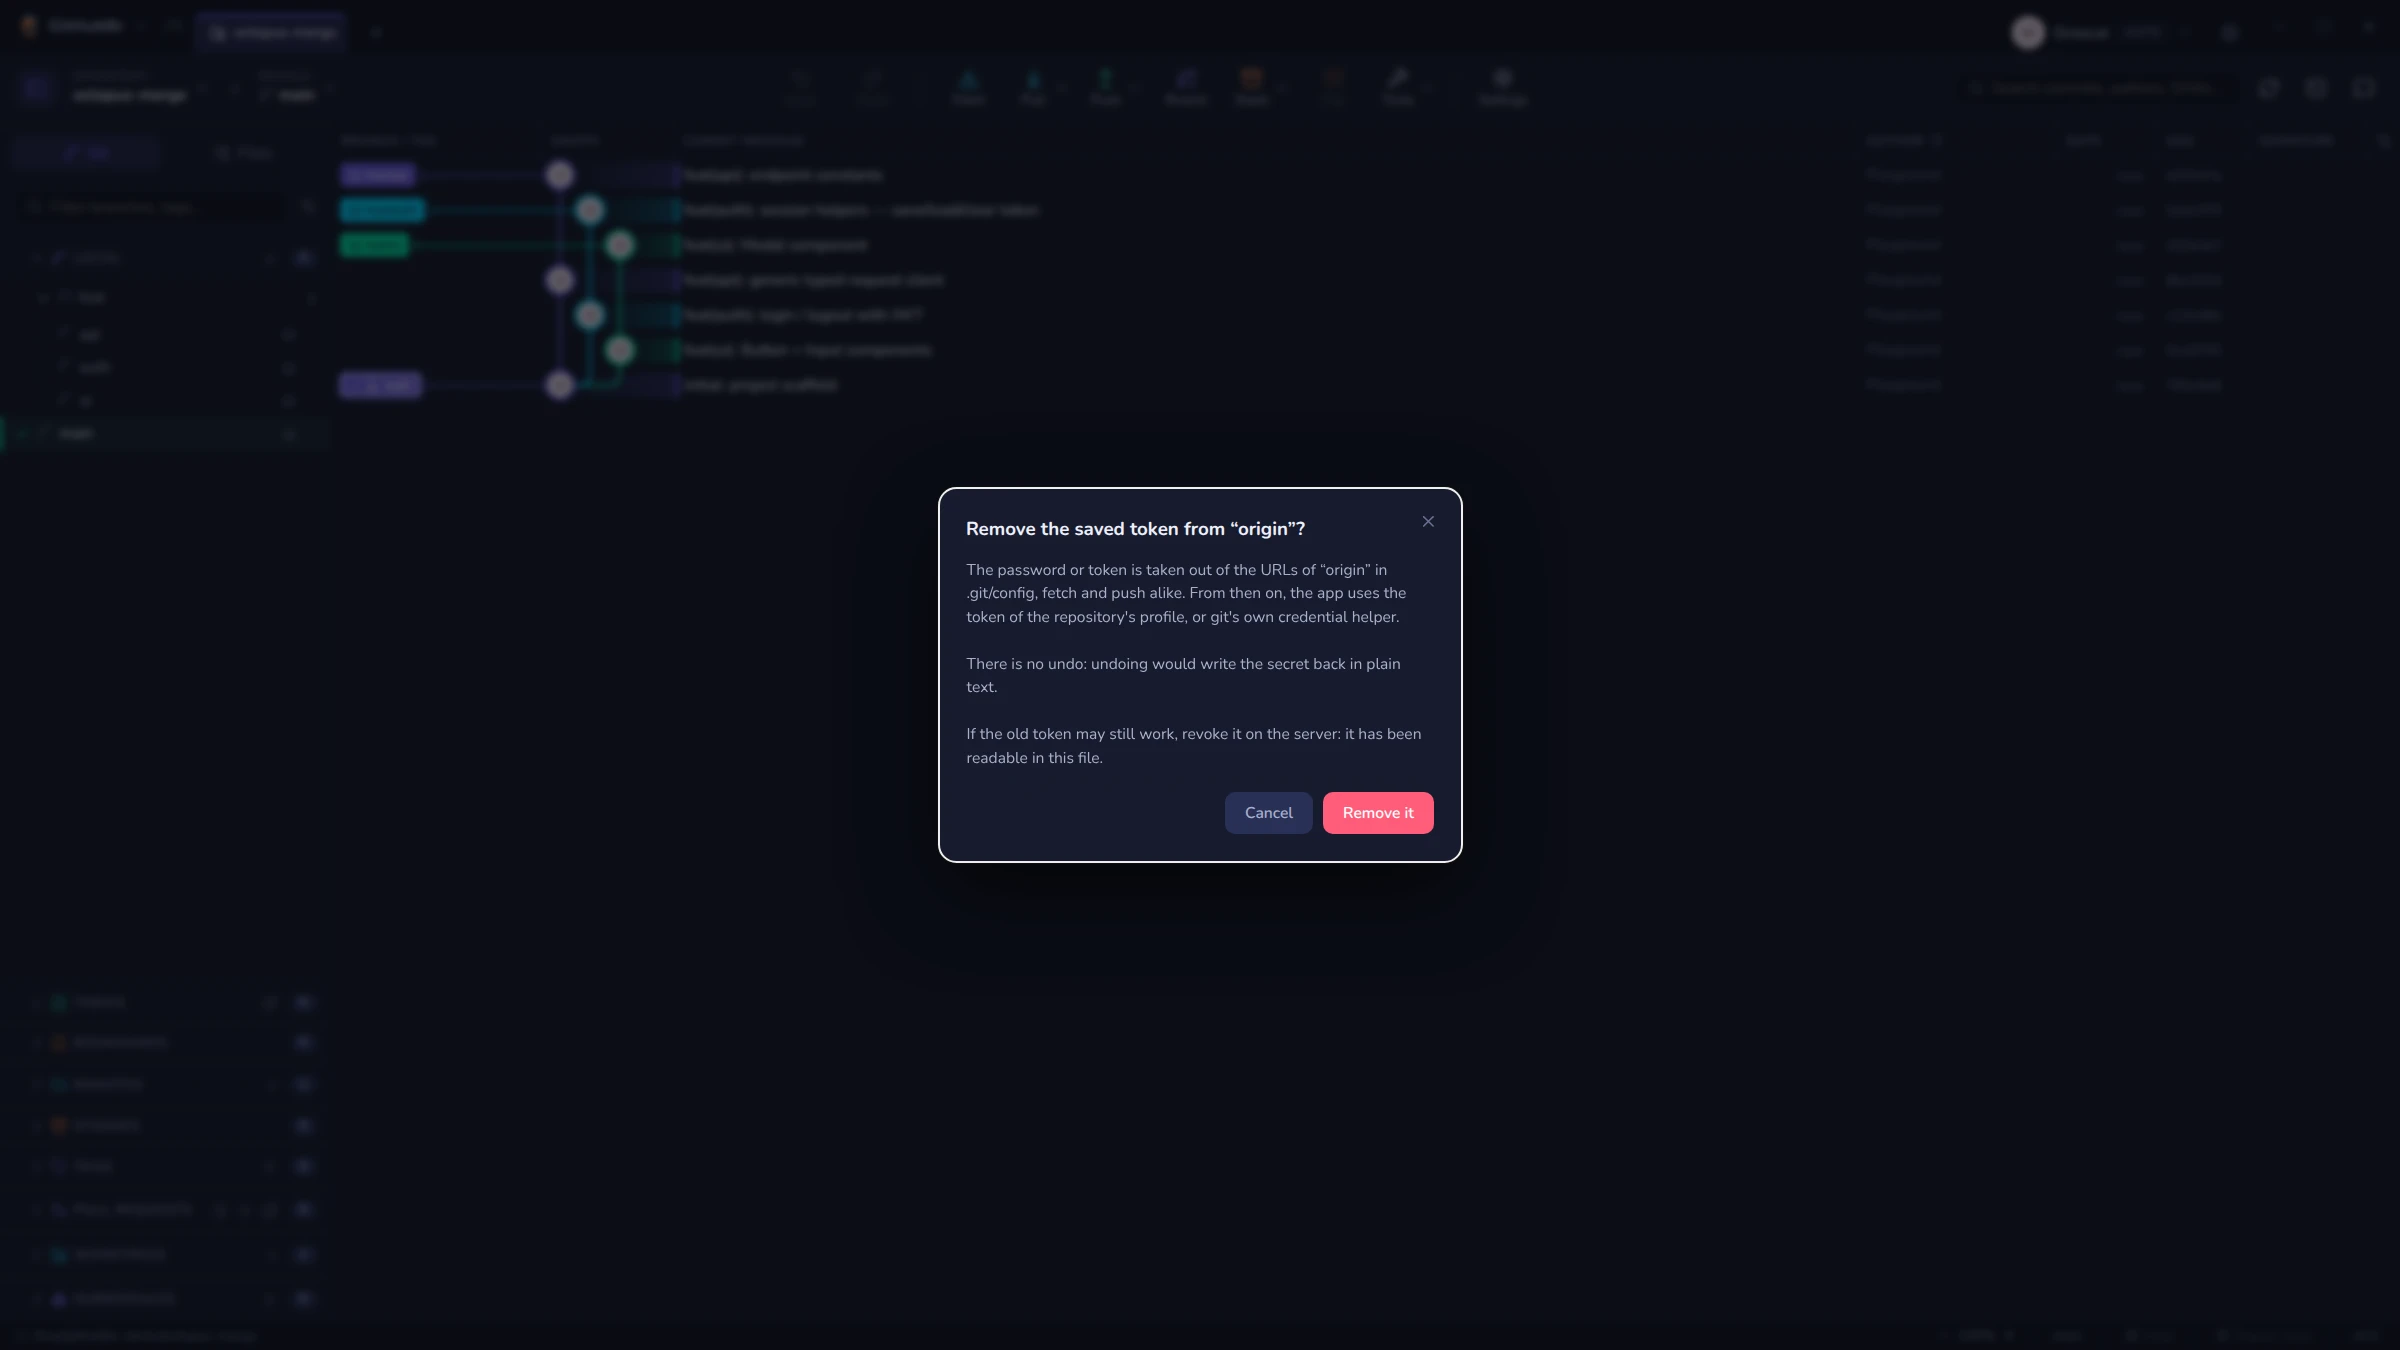
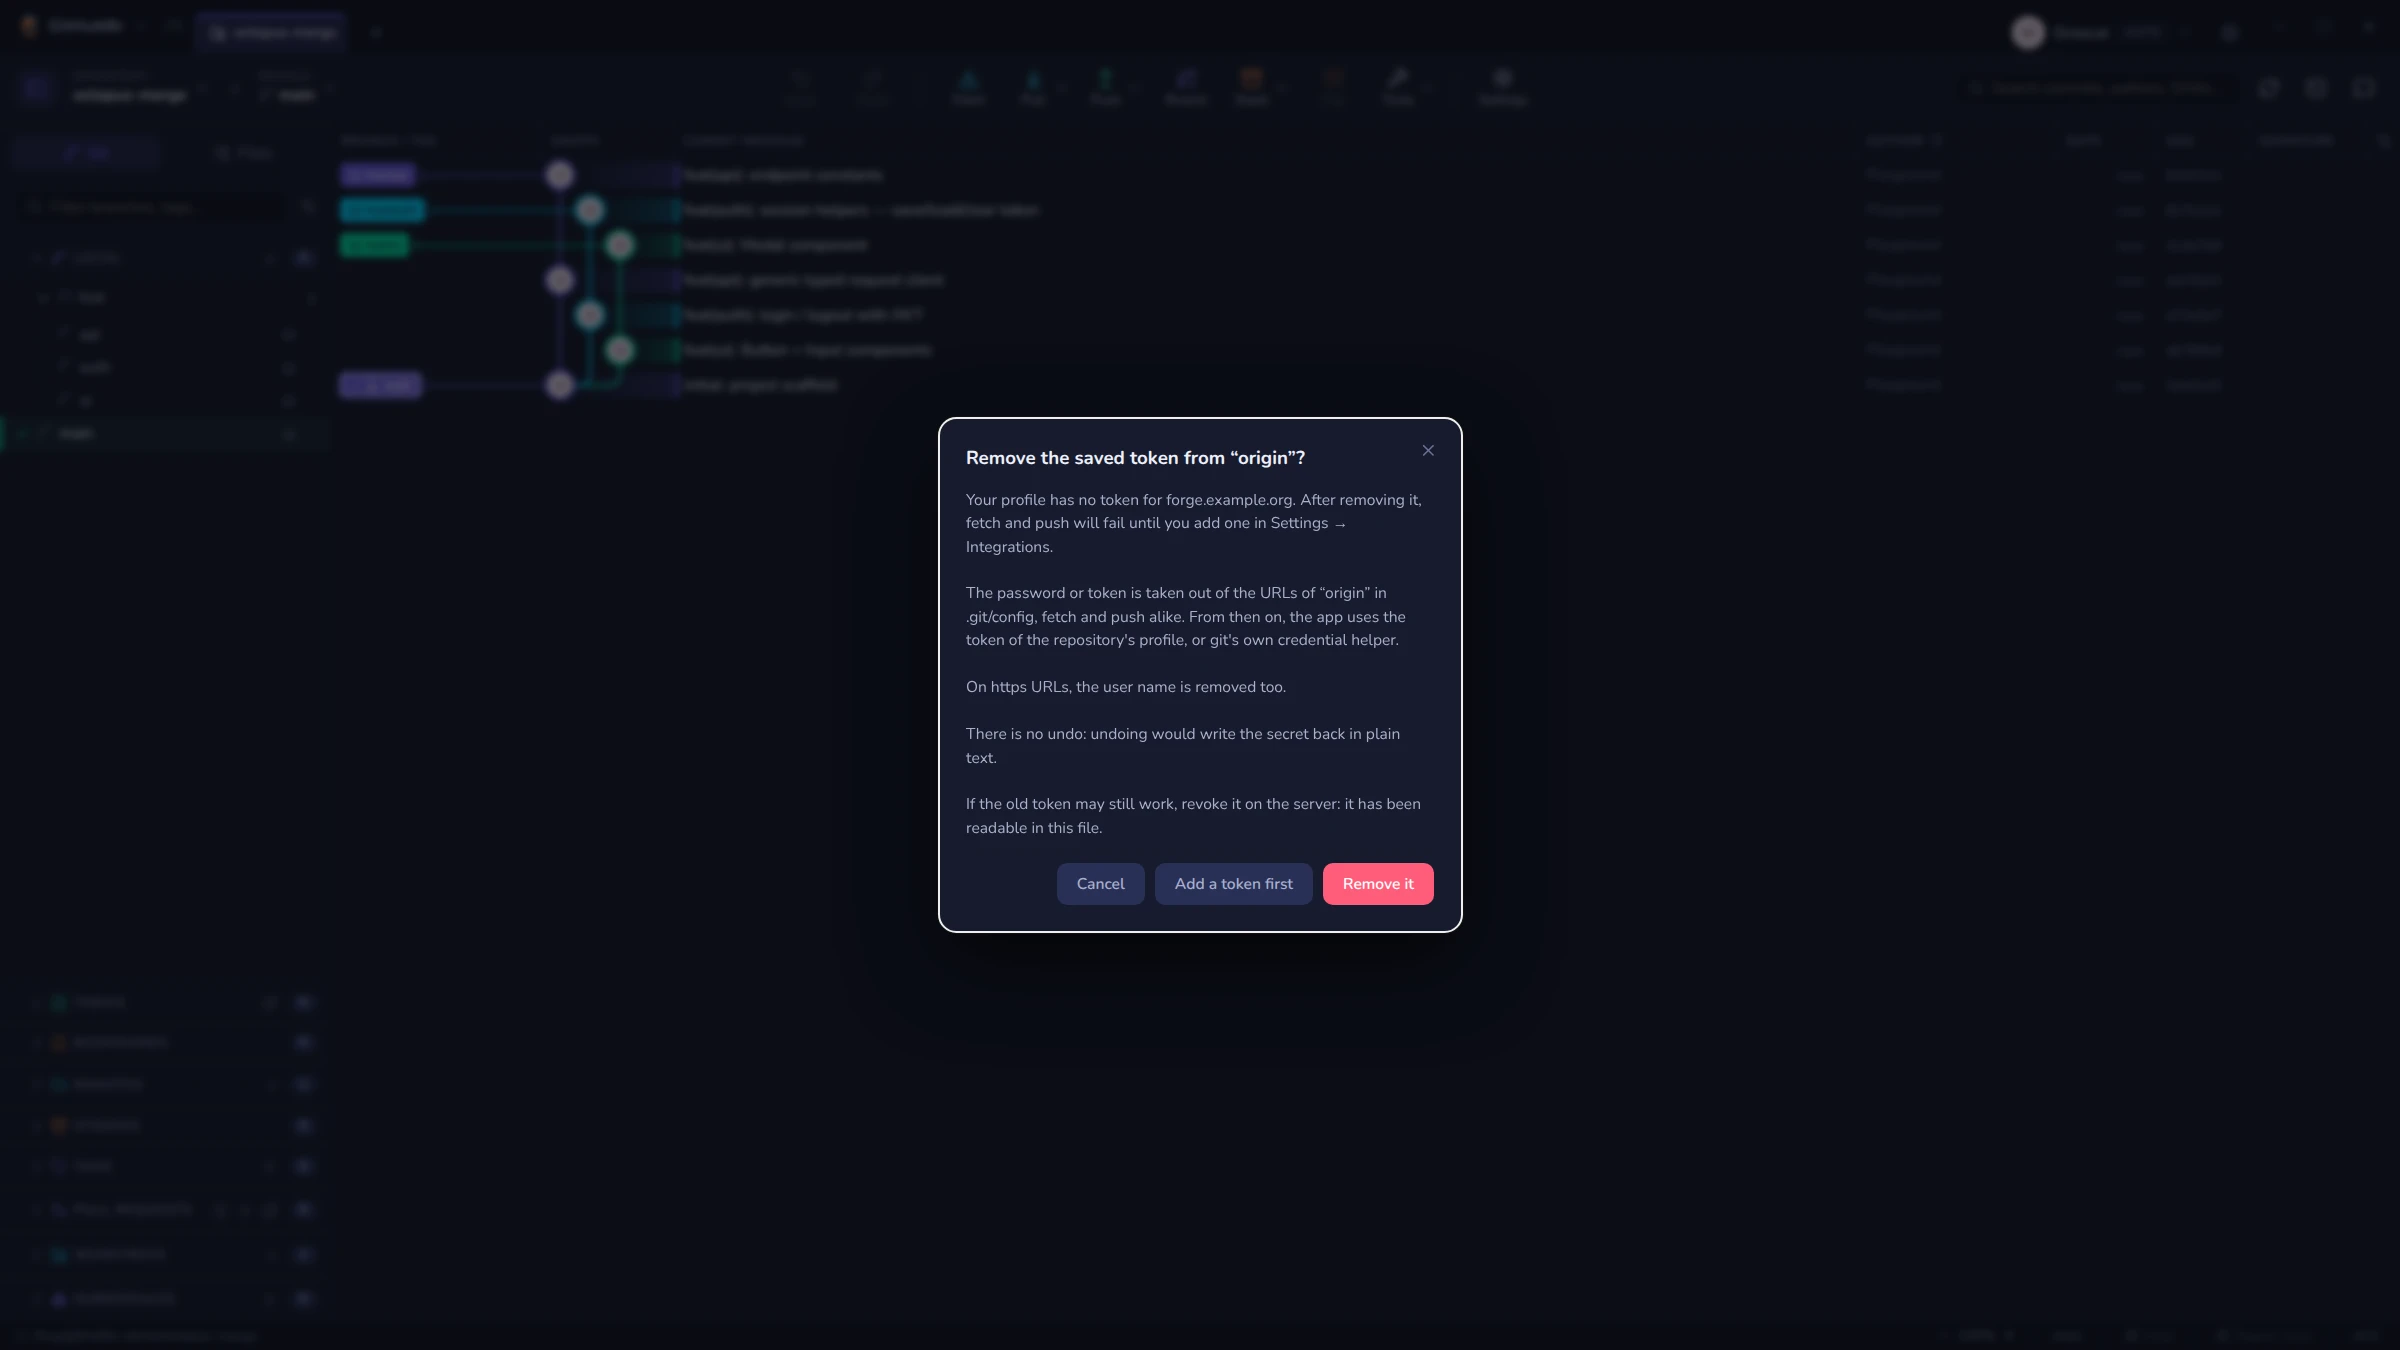
docs(credentials): priority of a URL password and the limits of its removal
States that a password in the URL always wins and is never removed without
asking, what signs in after removal with and without a profile token, and
the limits: insteadOf, edits that drop the password, ambiguous URLs and
transport prefixes. English and pt-BR; the screenshot shows the warning
variant on a fictional host.

Changed region(s): [[0.375, 0.3111, 0.625, 0.7156]]

diff --git a/docs/help/pt-BR/credentials.md b/docs/help/pt-BR/credentials.md
@@ -4,7 +4,7 @@ category: Segurança
 order: 73
 summary: O armazenamento de senhas do próprio git — o terceiro — e por que o https fica te perguntando de novo.
 keywords: credential helper senha password https pergunta de novo osxkeychain wincred manager libsecret store cache git-credentials texto puro esquecer revogado token 401 token na url do remote senha embutida invalid username or token authentication failed set-url
-source: 6c443db6f1d01e52607a4d9a88e70008db4a8801
+source: 1e74bbd13f1cd8ca72fac755ce38a4e43bc11456
 ---
 
 # Credential helper
@@ -123,14 +123,15 @@ conta como sem credencial.
 ## Uma senha salva na URL do remote
 
 Um clone antigo, ou uma URL copiada de uma wiki, pode levar a credencial dentro
-do endereço: `https://usuario:token@git.example.test/team/app.git`. O git envia
-essa senha e não pergunta a nenhum helper — nem ao token do
-[perfil](profiles.md) do repositório, nem ao GitHub CLI, nem ao armazenamento do
-próprio git. Enquanto o token funciona, ninguém percebe. Quando ele é revogado
-ou expira, todo fetch, pull e push daquele repositório falha com *Invalid
-username or token* ou *Authentication failed*, enquanto os outros repositórios
-do mesmo perfil funcionam. E o token fica em texto puro no `.git/config` do
-repositório.
+do endereço: `https://usuario:token@git.example.test/team/app.git`. **Uma senha
+na URL sempre tem prioridade:** o git a envia e não pergunta a nenhum helper —
+nem ao token do [perfil](profiles.md) do repositório, nem ao GitHub CLI, nem ao
+armazenamento do próprio git. Enquanto o token funciona, tudo bem, e o Gitcito
+não mexe nela: **ele nunca remove uma senha da URL sem te perguntar.** Quando o
+token é revogado ou expira, todo fetch, pull e push daquele repositório falha
+com *Invalid username or token* ou *Authentication failed*, enquanto os outros
+repositórios do mesmo perfil funcionam. E o token fica em texto puro no
+`.git/config` do repositório.
 
 ![Removendo um token salvo da URL de um remote](../../screenshots/remote-url-token.webp)
 
@@ -139,14 +140,20 @@ O Gitcito lê as URLs de fetch e de push de cada remote e avisa em três lugares
 | Onde | O que aparece |
 |------|---------------|
 | Um fetch, pull ou push que falhou | O erro explica que a URL do remote guarda uma senha salva, com **Remover da URL…** |
-| A sidebar | Um ícone de chave na linha do remote; a mesma ação está no menu do botão direito |
+| A sidebar | Um ícone discreto de chave na linha do remote: a URL guarda uma senha que tem prioridade sobre o token do perfil. A mesma ação está no menu do botão direito |
 | **Verificar login…** | O remote mostra a senha como origem, com o mesmo botão |
 
 A ação pergunta antes. Ela tira a senha de todas as URLs daquele remote — a de
 fetch e cada URL de push que tiver uma — e não grava nada além do
-`.git/config`. Daí em diante o remote entra com o token do perfil do
-repositório, ou com o helper do próprio git. Quando ela partiu de uma operação
-que falhou, oferece **Tentar de novo**.
+`.git/config`. O que acontece depois depende do que mais pode entrar:
+
+| Depois da remoção | O que fetch e push usam |
+|-------------------|-------------------------|
+| O perfil do repositório tem token ou conta vinculada para aquele host | Esse token — a confirmação não diz mais nada |
+| Sem token no perfil, mas o helper do próprio git tem um login para o host | O login do helper |
+| Nenhum dos dois | Nada: fetch e push falham até você adicionar um token. A confirmação avisa isso primeiro e oferece **Adicionar um token antes**, que abre Configurações → Integrações |
+
+Quando ela partiu de uma operação que falhou, oferece **Tentar de novo**.
 
 **Não há desfazer, de propósito.** Desfazer gravaria o segredo de volta no
 arquivo em texto puro, que é justamente o que a ação existe para impedir. Se o
@@ -156,20 +163,30 @@ para qualquer coisa que pudesse ler a pasta do repositório.
 **Limites.**
 
 - O nome de usuário sai junto (`https://git.example.test/…`), como quando você
-  roda `git remote set-url` à mão. Um servidor que precisa dele na URL — um
-  token do Bitbucket Data Center sem nome de usuário no perfil — precisa que ele
-  seja colocado de volta em **Editar remote…**.
+  roda `git remote set-url` à mão; a confirmação avisa. Um servidor que precisa
+  dele na URL — um token do Bitbucket Data Center sem nome de usuário no perfil —
+  precisa que ele seja colocado de volta em **Editar remote…**.
 - Um nome de usuário sozinho (`https://usuario@host/…`) não é apontado: o git
   continua pedindo ao helper a senha daquele usuário, então nada secreto fica
   guardado.
 - URLs SSH ficam como estão: `git@host:…` e `ssh://git@host/…` dão o login que
   o ssh usa, não uma credencial.
+- O prefixo de um remote helper (`persistent-https::https://…`, `gcrypt::…`) é
+  mantido; a URL depois dele é lida e limpa como qualquer outra.
+- **URLs ambíguas não são oferecidas para remoção.** Quando leitores discordam
+  de onde começa o host — um `@` depois de um `?` ou `#` no endereço, ou uma
+  senha com uma `/` sem codificação — cortar no `@` errado apontaria o remote
+  para outro servidor. Essa URL só aparece redigida, e o ícone de chave abre
+  **Editar remote…** para você corrigir à mão.
 - Só o `.git/config` é lido e alterado. Uma URL reescrita por uma regra
   `url.<base>.insteadOf`, ou um remote definido na config global, não é
-  inspecionado.
+  inspecionado — e renomear um remote nunca copia para a config do repositório
+  uma senha que uma regra `insteadOf` acrescenta.
 - A senha nunca sai do processo principal: as URLs dos remotes chegam à janela,
   ao menu de copiar URL e ao diálogo de edição sem ela. Salvar o diálogo de
-  edição com a URL que ele mostrou mantém a senha; só esta ação a remove.
+  edição com a URL que ele mostrou não muda nada e mantém a senha; **mudar o
+  host ou o caminho a descarta**, porque a URL digitada é gravada como está. Só
+  esta ação remove a senha mantendo o endereço.
 
 ## Limites que vale conhecer
 

diff --git a/docs/help/credentials.md b/docs/help/credentials.md
@@ -120,13 +120,15 @@ silently: a helper that needs a login window counts as having nothing.
 ## A password saved in the remote URL
 
 An old clone, or a URL pasted from a wiki, can carry its credential inside the
-address: `https://user:token@git.example.test/team/app.git`. Git sends that
-password and asks no helper at all — not the token of the repository's
-[profile](profiles.md), not the GitHub CLI, not git's own store. While the token
-works nobody notices. Once it is revoked or expires, every fetch, pull and push
-of that one repository fails with *Invalid username or token* or
-*Authentication failed*, while the other repositories on the same profile work.
-And the token sits in plain text in the repository's `.git/config`.
+address: `https://user:token@git.example.test/team/app.git`. **A password in the
+URL always takes priority:** git sends it and asks no helper at all — not the
+token of the repository's [profile](profiles.md), not the GitHub CLI, not git's
+own store. While the token works, that is fine, and Gitcito leaves it alone:
+**it never removes a password from a URL without asking you.** Once the token is
+revoked or expires, every fetch, pull and push of that one repository fails with
+*Invalid username or token* or *Authentication failed*, while the other
+repositories on the same profile work. And the token sits in plain text in the
+repository's `.git/config`.
 
 ![Removing a saved token from a remote URL](../screenshots/remote-url-token.webp)
 
@@ -135,14 +137,20 @@ Gitcito reads every remote's fetch and push URLs and says so in three places:
 | Where | What you see |
 |-------|--------------|
 | A failed fetch, pull or push | The error explains that the remote's URL holds a saved password, with **Remove it from the URL…** |
-| The sidebar | A key icon on the remote's row; the same action is in its right-click menu |
+| The sidebar | A quiet key icon on the remote's row: its URL holds a password that takes priority over the profile's token. The same action is in its right-click menu |
 | **Check sign-in…** | The remote shows the password as its source, with the same button |
 
 The action asks first. It takes the password out of every URL of that remote —
 the fetch URL and each push URL holding one — and writes nothing but
-`.git/config`. From then on the remote signs in with the repository profile's
-token, or git's own helper. When it started from a failed operation, it offers
-**Try again**.
+`.git/config`. What happens next depends on what else can sign in:
+
+| After removal | What fetch and push use |
+|---------------|-------------------------|
+| The repository's profile has a token or linked account for that host | That token — the confirmation says nothing more |
+| No profile token, but git's own helper has a login for the host | The helper's login |
+| Neither | Nothing: fetch and push fail until you add a token. The confirmation says so first and offers **Add a token first**, which opens Settings → Integrations |
+
+When it started from a failed operation, it offers **Try again**.
 
 **There is no undo, on purpose.** Undoing would write the secret back into the
 file in plain text, which is what the action exists to stop. If the old token
@@ -152,19 +160,29 @@ could read the repository folder.
 **Limits.**
 
 - The user name goes too (`https://git.example.test/…`), as when you run
-  `git remote set-url` by hand. A server that needs it in the URL — a
-  Bitbucket Data Center token with no user name in the profile — needs it added
-  back with **Edit remote…**.
+  `git remote set-url` by hand; the confirmation says so. A server that needs it
+  in the URL — a Bitbucket Data Center token with no user name in the profile —
+  needs it added back with **Edit remote…**.
 - A user name alone (`https://user@host/…`) is not flagged: git still asks the
   helper for that user's password, so nothing secret is stored.
 - SSH URLs are left alone: `git@host:…` and `ssh://git@host/…` name the login
   ssh uses, not a credential.
-- Only `.git/config` is read and changed. A URL rewritten by an
+- A remote helper's prefix (`persistent-https::https://…`, `gcrypt::…`) is kept;
+  the URL after it is read and cleaned like any other.
+- **Ambiguous URLs are not offered for removal.** When readers disagree on where
+  the host starts — an `@` after a `?` or `#` in the address, or a password
+  holding an unencoded `/` — cutting at the wrong `@` would point the remote at
+  another server. Such a URL is only shown redacted, and the key icon opens
+  **Edit remote…** so you fix it by hand.
+- Only `.git/config` is read and changed. A URL rewritten by a
   `url.<base>.insteadOf` rule, or a remote defined in your global config, is not
-  inspected.
+  inspected — and renaming a remote never copies a password an `insteadOf` rule
+  adds into the repository's config.
 - The password never leaves the main process: remote URLs reach the window, the
   copy-URL menu and the edit dialog without it. Saving the edit dialog with the
-  URL it showed keeps the password; only this action removes it.
+  URL it showed changes nothing and keeps the password; **changing the host or
+  the path drops it**, since the URL you typed is written as it is. Only this
+  action removes a password while keeping the address.
 
 ## Limits worth knowing
 
